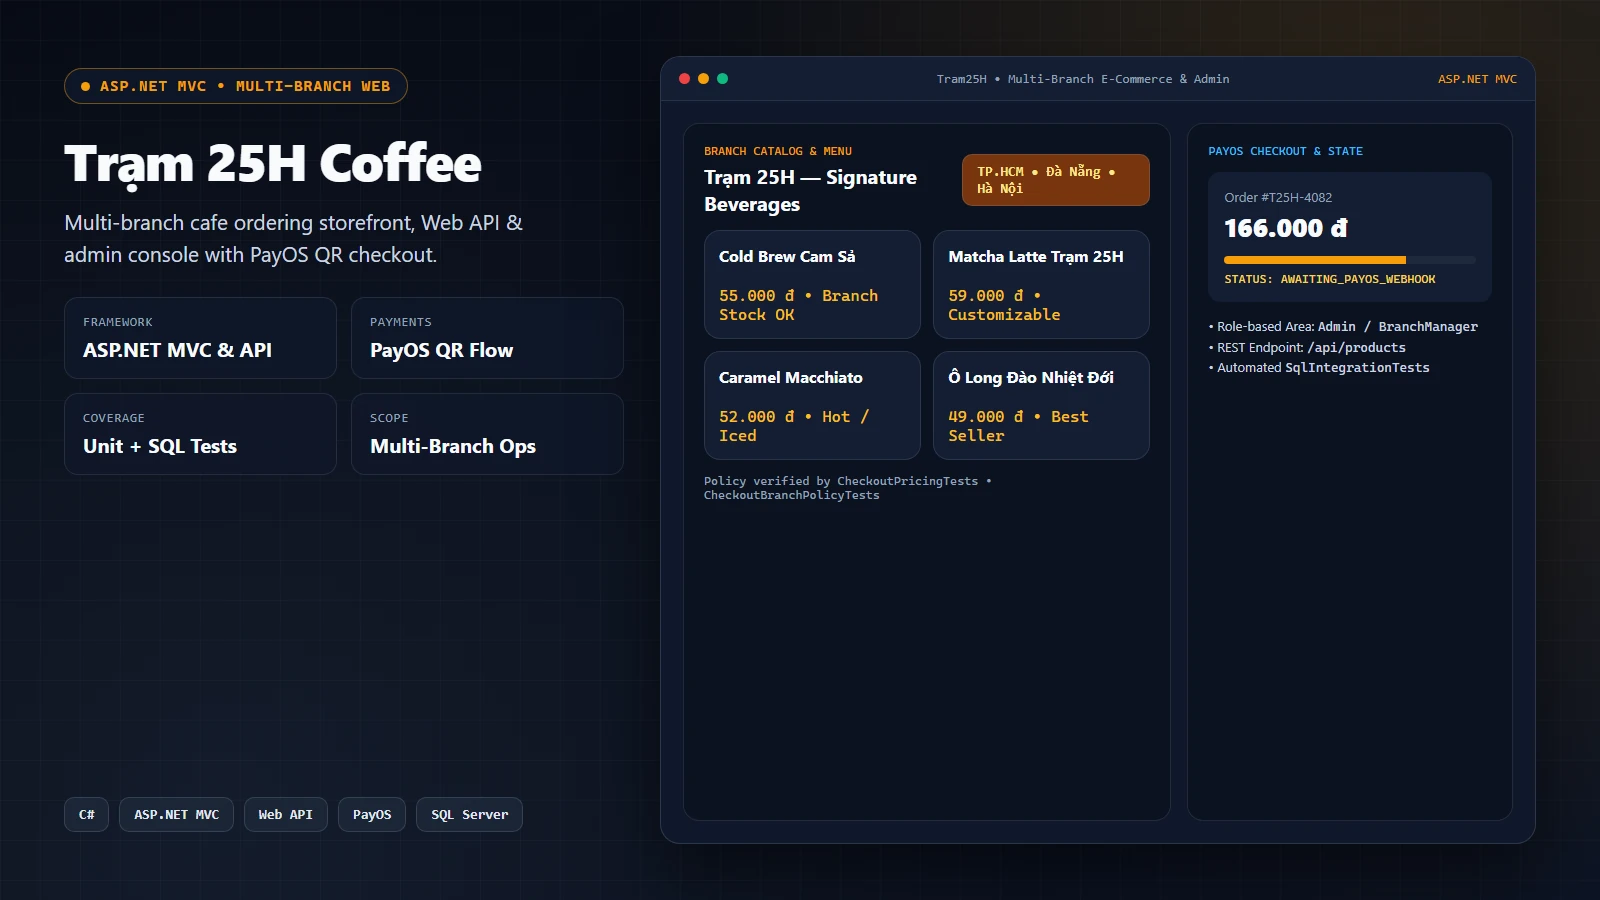
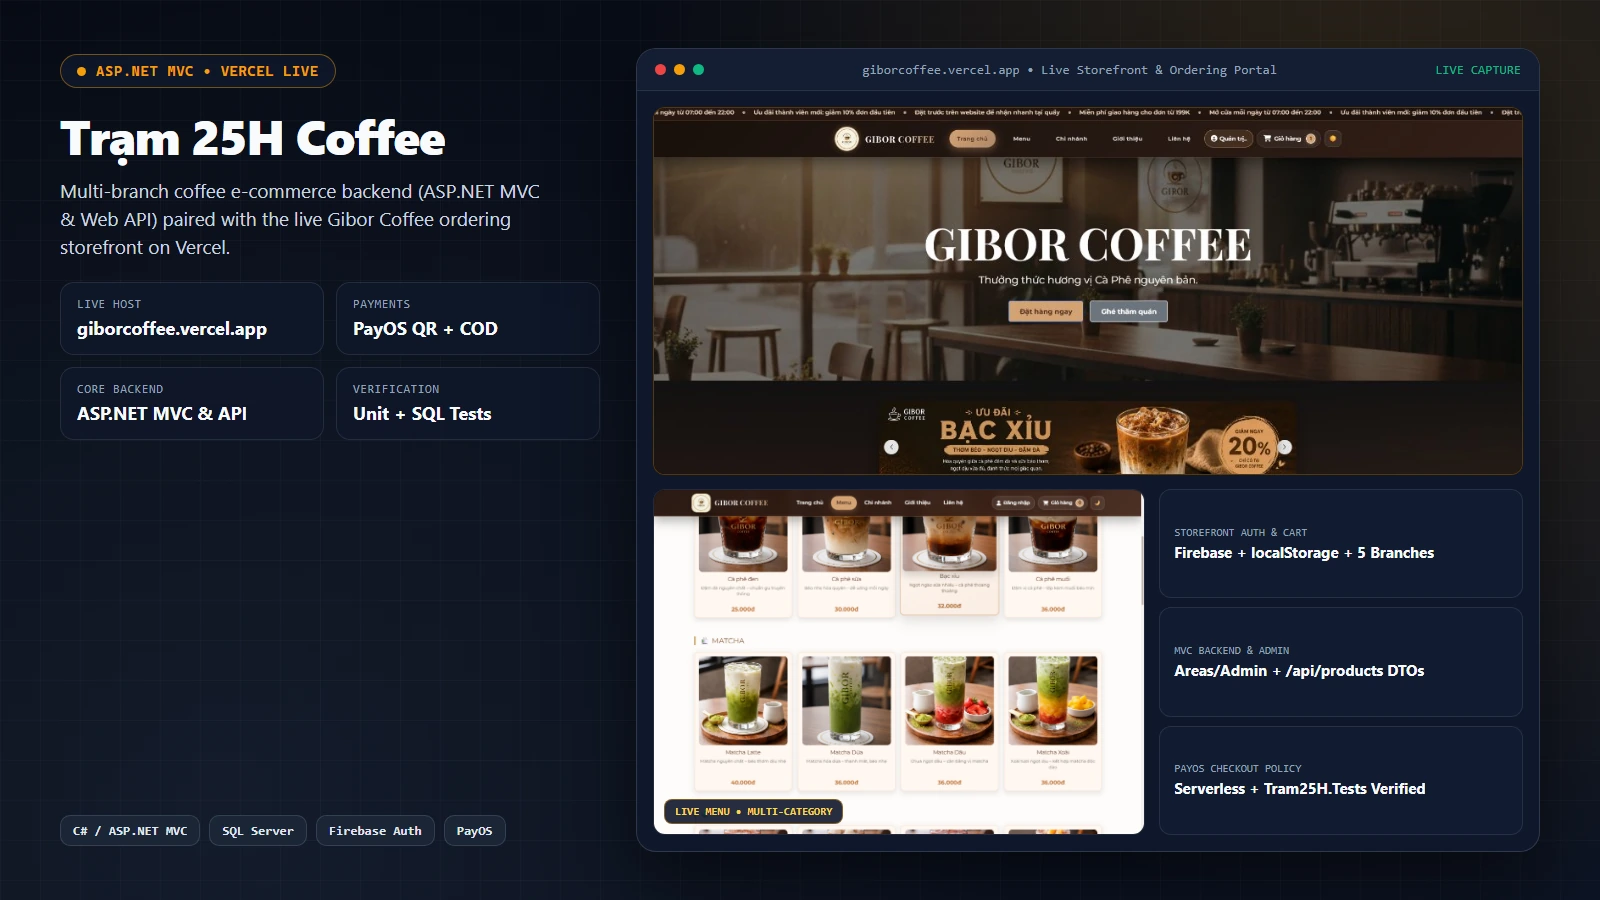
feat(projects): add live giborcoffee storefront link and captures to tram25h
- Set live demo URL to https://giborcoffee.vercel.app/ and status Deployed for tram25h-coffee
- Rebuild cover.webp and add live storefront hero/menu WebP captures while preserving technical illustrations as screen-03/04

diff --git a/assets/js/data/projects.js b/assets/js/data/projects.js
@@ -106,17 +106,35 @@ export const projects = [
     categories: ["fullstack"],
     category: "ASP.NET MVC + Web API · Multi-Branch E-Commerce",
     year: "2025 — 2026",
-    status: "Completed",
-    statusKey: "completed",
+    status: "Deployed",
+    statusKey: "deployed",
     role: "Fullstack .NET Web Developer",
     repo: "https://github.com/Peo051/Tram25H",
     repoSecondary: "https://github.com/Peo051/Coffee_Shop_Management_Web",
     isPrivateRepo: true,
-    live: "",
+    live: "https://giborcoffee.vercel.app/",
     tech: ["C#", "ASP.NET MVC", "ASP.NET Web API", "SQL Server", "JavaScript", "Bootstrap", "Firebase Auth", "Vercel Serverless", "PayOS"],
     gallery: [
       {
         src: "assets/img/projects/tram25h-coffee/screen-01.webp",
+        type: "real-screenshot",
+        title: { en: "Live Production Storefront — Hero, Admin Link, Cart & Promo Banner", vi: "Giao diện Storefront Live — Hero, Quản trị, Giỏ hàng & Banner Ưu đãi" },
+        caption: {
+          en: "Live deployment capture of the companion GIBOR COFFEE ordering storefront at https://giborcoffee.vercel.app/ featuring dark theme navigation, active cart badge, Admin shortcut, and promotional banner.",
+          vi: "Ảnh chụp thực tế website đặt món trực tuyến tại https://giborcoffee.vercel.app/ (GIBOR COFFEE) với thanh điều hướng dark mode, giỏ hàng trực tiếp, lối vào Quản trị và banner khuyến mãi."
+        }
+      },
+      {
+        src: "assets/img/projects/tram25h-coffee/screen-02.webp",
+        type: "real-screenshot",
+        title: { en: "Live Menu Catalog — Categorized Beverages & Branch Pricing", vi: "Thực đơn Trực tuyến — Phân loại Đồ uống & Giá bán Live" },
+        caption: {
+          en: "Captured live from https://giborcoffee.vercel.app/menu.html (1440×900) showing categorized beverage grids (Coffee, Matcha, Tea) with responsive product cards.",
+          vi: "Chụp trực tiếp từ https://giborcoffee.vercel.app/menu.html (1440×900) hiển thị danh mục Cà phê, Matcha, Trà cùng thẻ món uống và giá bán trực quan."
+        }
+      },
+      {
+        src: "assets/img/projects/tram25h-coffee/screen-03.webp",
         type: "technical-illustration",
         title: { en: "Customer Storefront, Multi-Branch Menu & PayOS Policy Architecture", vi: "Luồng Đặt hàng Chi nhánh & Chính sách Thanh toán PayOS" },
         caption: {
@@ -125,7 +143,7 @@ export const projects = [
         }
       },
       {
-        src: "assets/img/projects/tram25h-coffee/screen-02.webp",
+        src: "assets/img/projects/tram25h-coffee/screen-04.webp",
         type: "technical-illustration",
         title: { en: "Admin & BranchManager Console + Web API Surface", vi: "Khu vực Quản trị Đa chi nhánh & REST Web API" },
         caption: {
@@ -135,50 +153,50 @@ export const projects = [
       }
     ],
     en: {
-      summary: "Full-featured ASP.NET MVC multi-branch coffee e-commerce platform and Web API for Trạm 25H, paired with the responsive Coffee Shop Ordering Website featuring Firebase Auth, checkout discounts, and PayOS QR flows.",
-      overview: "Unifies the Trạm 25H ASP.NET MVC backend (Peo051/Tram25H) with its companion 2025 Coffee Shop Ordering Website (Peo051/Coffee_Shop_Management_Web). Customers browse branch-specific menus, manage carts and loyalty points with localStorage/Firebase Auth, and complete COD or QR checkout backed by PayOS endpoints.",
+      summary: "Full-featured ASP.NET MVC multi-branch coffee e-commerce platform and Web API for Trạm 25H, paired with the live GIBOR COFFEE ordering storefront on Vercel (giborcoffee.vercel.app) featuring Firebase Auth, checkout discounts, and PayOS QR flows.",
+      overview: "Unifies the Trạm 25H ASP.NET MVC backend (Peo051/Tram25H) with its companion 2025 Coffee Shop Ordering Website (Peo051/Coffee_Shop_Management_Web), deployed live as GIBOR COFFEE at https://giborcoffee.vercel.app/. Customers browse branch-specific menus, manage carts and loyalty points with localStorage/Firebase Auth, and complete COD or QR checkout backed by PayOS endpoints.",
       problem: "Operating multiple cafe branches requires strict per-branch cart consistency, reliable online QR payment reconciliation, and role separation between system admins and individual branch managers.",
-      solution: "Structured clean MVC controllers (Home, Menu, Branches, Cart, Account, Contact), a REST Web API (/api/products), dedicated Areas/Admin controllers backed by Tram25H.Tests & SqlIntegrationTests, plus the static/Vercel Ordering Website with client-side checkout logic and serverless PayOS endpoints.",
+      solution: "Structured clean MVC controllers (Home, Menu, Branches, Cart, Account, Contact), a REST Web API (/api/products), dedicated Areas/Admin controllers backed by Tram25H.Tests & SqlIntegrationTests, plus the live Vercel Ordering Website (giborcoffee.vercel.app) with client-side checkout logic and serverless PayOS endpoints.",
       features: [
         "Customer catalog browsing by branch, configurable cart pricing, loyalty-point redemption, order totals/discounts, COD and PayOS QR checkout.",
         "Role-based Admin & BranchManager portal covering branches, categories, products, customers, orders, status, and revenue reports.",
-        "Client-side data persistence (localStorage), Firebase Authentication, mobile-responsive Bootstrap layouts, and Vercel Serverless PayOS endpoints (2025 web baseline).",
+        "Live Vercel storefront (giborcoffee.vercel.app) with client-side data persistence (localStorage), Firebase Authentication, responsive multi-theme UI, and serverless PayOS endpoints.",
         "Comprehensive automated verification via Tram25H.Tests (CheckoutPricingTests, PayOSServiceTests, OrderStatusTransitionTests) and Tram25H.SqlIntegrationTests."
       ],
       architectureNotes: [
         "Strict checkout policy enforcement isolated in testable services (CartSessionService, ProductSelectionService, PayOSService).",
         "Dedicated Tram25H.SqlIntegrationTests provisions and validates real SQL Server schemas cleanly.",
-        "Companion repository Peo051/Coffee_Shop_Management_Web (2025) implements HTML/CSS/JS/Bootstrap ordering UI, Firebase Auth, and serverless PayOS endpoints."
+        "Companion repository Peo051/Coffee_Shop_Management_Web is live on Vercel at https://giborcoffee.vercel.app/ (GIBOR COFFEE) with HTML/CSS/JS/Bootstrap ordering UI, Firebase Auth, and serverless PayOS endpoints."
       ],
       contribution: [
-        "Web Developer (Coffee Shop Ordering Website, 2025): Implemented client-side localStorage persistence, cart, account and loyalty-point flows, mobile-responsive layouts, and checkout logic for totals, discounts, point redemption, COD, QR payments, and serverless PayOS endpoints.",
+        "Web Developer (Coffee Shop Ordering Website / giborcoffee.vercel.app, 2025): Implemented client-side localStorage persistence, cart, account and loyalty-point flows, mobile-responsive layouts, and checkout logic for totals, discounts, point redemption, COD, QR payments, and serverless PayOS endpoints.",
         "Fullstack .NET Developer (Trạm 25H, 2025–2026): Built customer ordering, multi-branch lookup, Admin/BranchManager controllers, REST Web API DTOs, and PayOS payment verification flows in ASP.NET MVC.",
         "Authored unit tests (Tram25H.Tests) and database integration suites (Tram25H.SqlIntegrationTests)."
       ],
-      developmentStatus: "Completed full-stack web solution (DoAnLapTrinhWeb.sln) and companion Coffee Shop Ordering Website verified with unit and SQL integration tests."
+      developmentStatus: "Companion storefront deployed live on Vercel (giborcoffee.vercel.app); full-stack ASP.NET MVC & Web API solution (DoAnLapTrinhWeb.sln) verified with unit and SQL integration tests."
     },
     vi: {
-      summary: "Nền tảng web đặt món và quản lý chuỗi cà phê đa chi nhánh Trạm 25H trên ASP.NET MVC & Web API, phát triển nối tiếp từ website đặt món Coffee Shop Ordering Website (Firebase Auth, PayOS Serverless, PayOS QR).",
-      overview: "Hệ thống kết hợp giải pháp backend ASP.NET MVC (Peo051/Tram25H) cùng website đặt món Coffee Shop Ordering Website năm 2025 (Peo051/Coffee_Shop_Management_Web). Khách hàng đặt món theo chi nhánh, lưu giỏ hàng và tích điểm (localStorage / Firebase Auth), tính giảm giá/đổi điểm và thanh toán COD hoặc PayOS QR.",
+      summary: "Nền tảng web đặt món và quản lý chuỗi cà phê đa chi nhánh Trạm 25H trên ASP.NET MVC & Web API, kết hợp storefront đặt món đang chạy live trên Vercel tại giborcoffee.vercel.app (Firebase Auth, PayOS Serverless, PayOS QR).",
+      overview: "Hệ thống kết hợp giải pháp backend ASP.NET MVC (Peo051/Tram25H) cùng website đặt món Coffee Shop Ordering Website năm 2025 (Peo051/Coffee_Shop_Management_Web), đang triển khai trực tuyến dưới tên GIBOR COFFEE tại https://giborcoffee.vercel.app/. Khách hàng đặt món theo chi nhánh, lưu giỏ hàng và tích điểm (localStorage / Firebase Auth), tính giảm giá/đổi điểm và thanh toán COD hoặc PayOS QR.",
       problem: "Vận hành chuỗi quán cà phê nhiều chi nhánh đòi hỏi đồng bộ giá và tồn món theo từng cơ sở, kiểm soát trạng thái đơn hàng chặt chẽ và bảo vệ chính sách giỏ hàng khi thanh toán PayOS trực tuyến.",
-      solution: "Tổ chức rõ ràng các controller ASP.NET MVC, khu vực quản trị Areas/Admin và Web API (/api/products) kèm bộ test SQL, kết hợp nền tảng Website Đặt món 2025 sử dụng JavaScript, Bootstrap, Firebase Authentication và Vercel Serverless Functions cho PayOS.",
+      solution: "Tổ chức rõ ràng các controller ASP.NET MVC, khu vực quản trị Areas/Admin và Web API (/api/products) kèm bộ test SQL, kết hợp Website Đặt món đang vận hành live trên Vercel (giborcoffee.vercel.app) sử dụng JavaScript, Bootstrap, Firebase Authentication và Vercel Serverless Functions cho PayOS.",
       features: [
         "Đặt đồ uống theo chi nhánh, tính tổng đơn, áp mã giảm giá, đổi điểm thưởng, thanh toán COD hoặc quét mã PayOS QR.",
         "Phân quyền tách biệt Admin toàn hệ thống và BranchManager theo chi nhánh trong Areas/Admin.",
-        "Website đặt món 2025 hỗ trợ lưu trữ phía client (localStorage), đăng nhập Firebase Authentication, giao diện Bootstrap responsive và các endpoint Vercel Serverless cho PayOS.",
+        "Website đặt món live tại giborcoffee.vercel.app hỗ trợ lưu trữ phía client (localStorage), đăng nhập Firebase Authentication, giao diện sáng/tối responsive và các endpoint Vercel Serverless cho PayOS.",
         "Kiểm thử tự động hóa nghiệp vụ qua CheckoutPricingTests, PayOSServiceTests, OrderStatusTransitionTests và SQL Integration Tests."
       ],
       architectureNotes: [
         "Tách các chính sách tính giá, chọn chi nhánh và trạng thái đơn thành service dễ kiểm thử đơn vị.",
         "Dự án Tram25H.SqlIntegrationTests tự khởi tạo schema và kiểm tra truy vấn trên SQL Server thực tế.",
-        "Repository song hành Peo051/Coffee_Shop_Management_Web (2025) sử dụng JavaScript, HTML, CSS, Bootstrap, localStorage, Firebase Auth và Vercel Serverless Functions."
+        "Repository song hành Peo051/Coffee_Shop_Management_Web đang triển khai live trên Vercel tại https://giborcoffee.vercel.app/ (GIBOR COFFEE) với JavaScript, HTML, CSS, Bootstrap, localStorage, Firebase Auth và Vercel Serverless Functions."
       ],
       contribution: [
-        "Web Developer (Coffee Shop Ordering Website, 2025): Triển khai lưu trữ phía client bằng localStorage, giỏ hàng, luồng tài khoản & tích điểm, bố cục di động responsive và logic thanh toán (tổng đơn, giảm giá, đổi điểm, COD, QR kèm serverless PayOS endpoints).",
+        "Web Developer (Coffee Shop Ordering Website / giborcoffee.vercel.app, 2025): Triển khai lưu trữ phía client bằng localStorage, giỏ hàng, luồng tài khoản & tích điểm, bố cục di động responsive và logic thanh toán (tổng đơn, giảm giá, đổi điểm, COD, QR kèm serverless PayOS endpoints).",
         "Fullstack .NET Developer (Trạm 25H, 2025–2026): Xây dựng luồng đặt hàng đa chi nhánh, kiểm chứng thanh toán PayOS và phân khu quản trị ASP.NET MVC.",
         "Viết bộ unit test nghiệp vụ và kiểm thử tích hợp SQL Server."
       ],
-      developmentStatus: "Đã hoàn thành giải pháp web ASP.NET MVC & Web API cùng website Coffee Shop Ordering Website (kèm unit test và SQL test)."
+      developmentStatus: "Storefront đồng hành đang chạy bản live trên Vercel (giborcoffee.vercel.app); giải pháp ASP.NET MVC & Web API đã hoàn thiện cùng bộ unit test và SQL test."
     }
   },
   {
